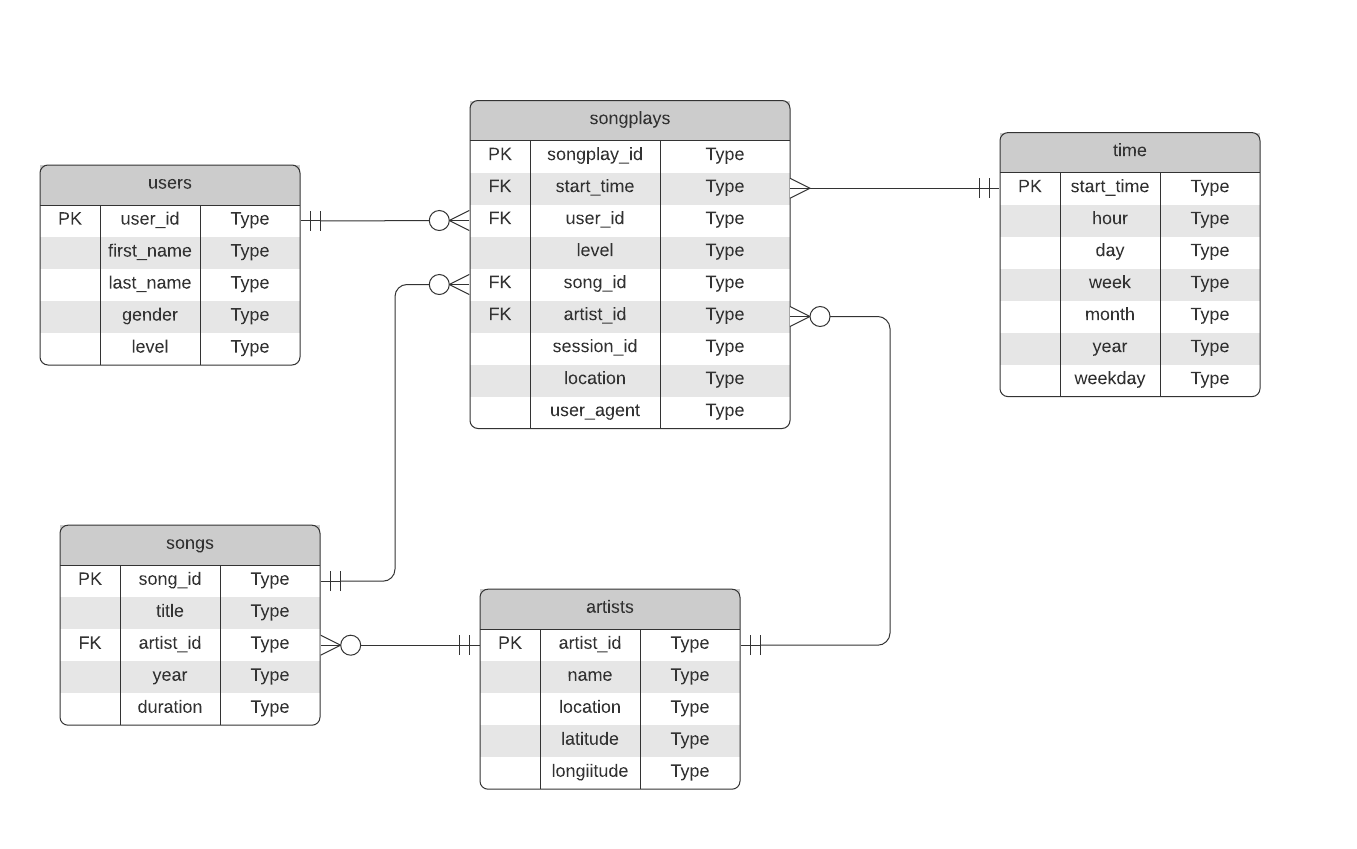
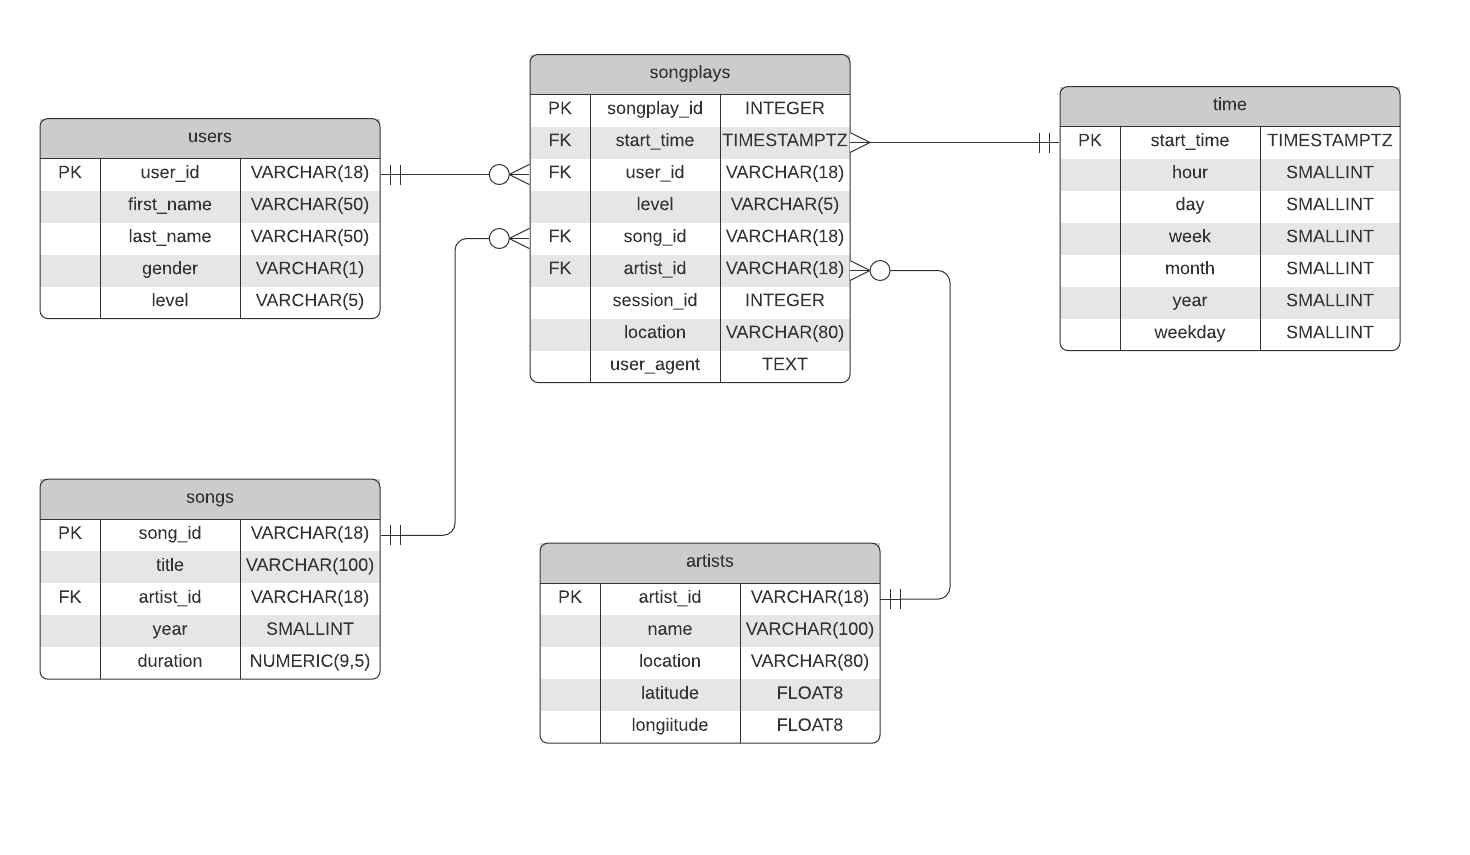
Editing README.md; Adding new database schema image

diff --git a/etl.py b/etl.py
@@ -2,6 +2,8 @@ import os
 import glob
 import psycopg2
 import pandas as pd
+from config import config
+params = config()
 from sql_queries import *
 
 
@@ -60,7 +62,7 @@ def process_data(cur, conn, filepath, func):
     all_files = []
     for root, dirs, files in os.walk(filepath):
         files = glob.glob(os.path.join(root,'*.json'))
-        for f in files :
+        for f in files:
             all_files.append(os.path.abspath(f))
 
     # get total number of files found
@@ -75,7 +77,8 @@ def process_data(cur, conn, filepath, func):
 
 
 def main():
-    conn = psycopg2.connect("host=127.0.0.1 dbname=sparkifydb user=student password=student")
+    conn = psycopg2.connect(**params)
+    conn.set_session(autocommit=True)
     cur = conn.cursor()
 
     process_data(cur, conn, filepath='data/song_data', func=process_song_file)

diff --git a/create_tables.py b/create_tables.py
@@ -41,7 +41,7 @@ def drop_tables(cur, conn):
 
 def create_tables(cur, conn):
     """
-    Creates each table using the queries in `create_table_queries` list. 
+    Creates each table using the queries in `create_table_queries` list.
     """
     for query in create_table_queries:
         cur.execute(query)

diff --git a/README.md b/README.md
@@ -6,9 +6,18 @@
 
 ## Usage
 
-Starting local PostgreSQL instance:
+1. Starting local PostgreSQL instance:
 ```
 docker-compose up
 ```
 
 You can edit your database credentials in `database.ini`
+
+2. Create the database running:
+```
+python create_tables.py
+```
+
+3. (optional) Run ETL.ipynb in order to check the full pipeline
+
+4. Run `elt.py`: it will read and process all the files from `song_data` and `log_data`, loading them into the database
